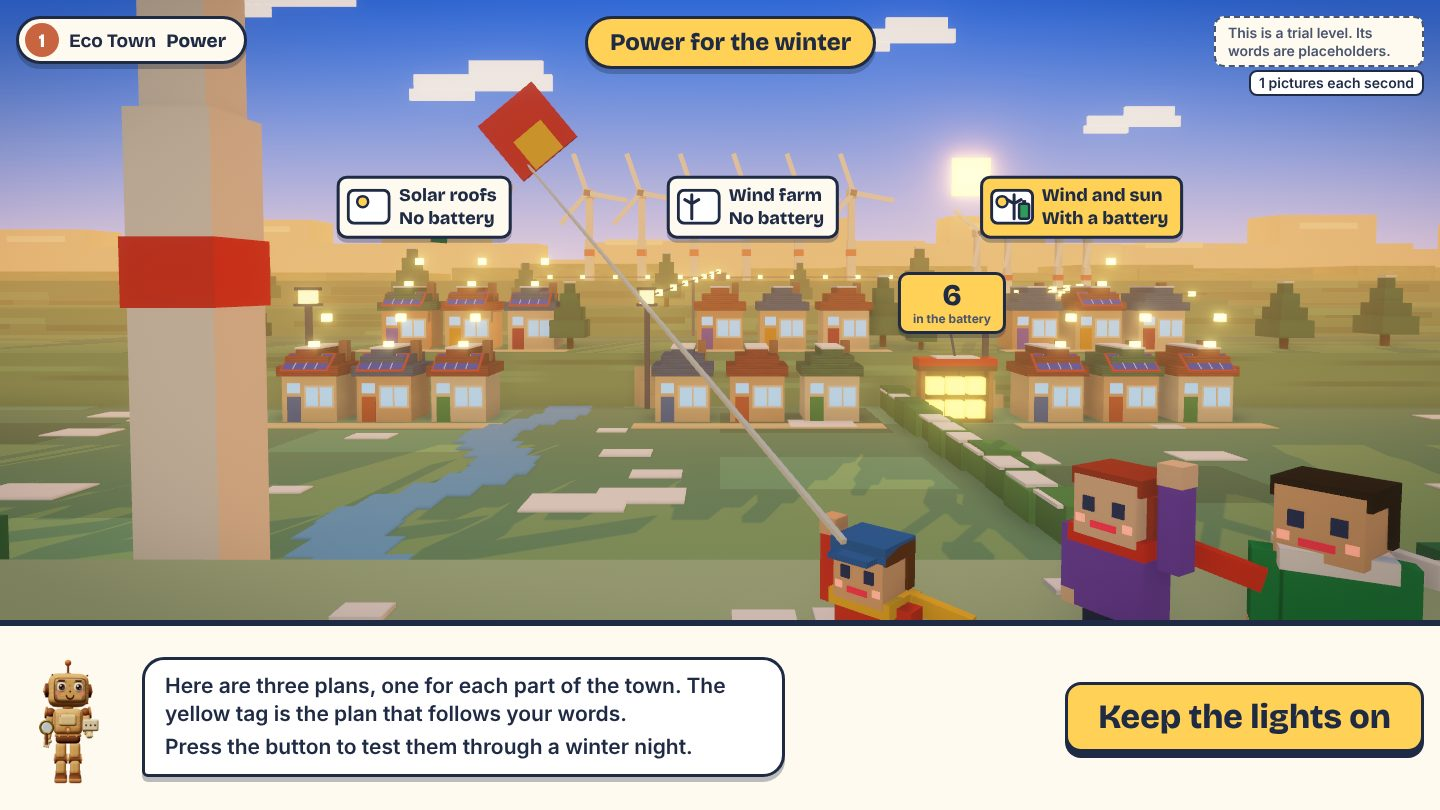
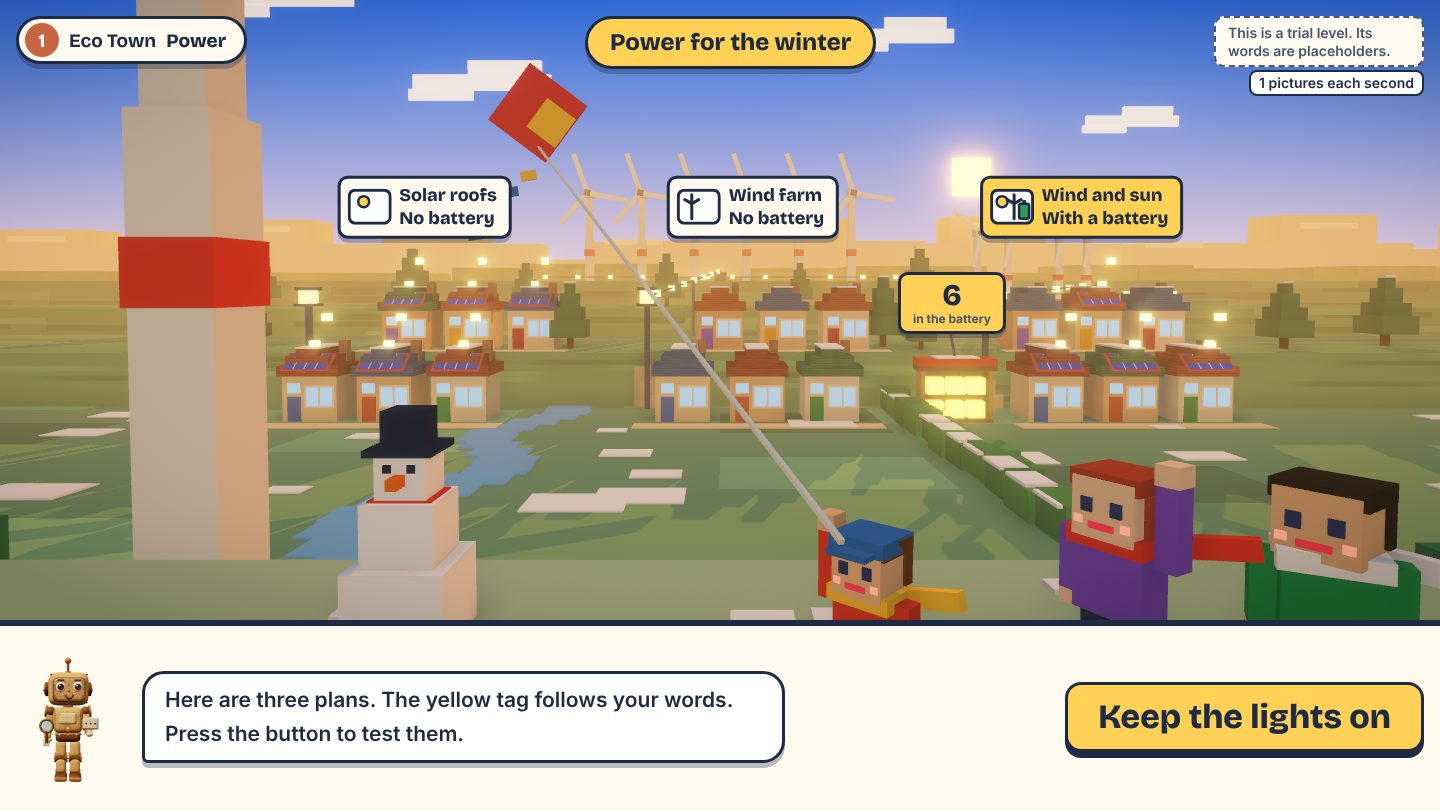
Power level: first recordings, and fixes found by looking at them
Claude-Session: https://claude.ai/code/session_01Ecde5Lvgabpd1qnHSP6bP6

diff --git a/docs/redesign/concepts/levels/power/level.js b/docs/redesign/concepts/levels/power/level.js
@@ -35,7 +35,7 @@ const W = {
   parts: { turb: 'Wind turbine', roof: 'Solar roof' }, left: (n) => (n ? `${n} left` : 'All in place'), stripe: 'Stripe colour', stripeNames: ['Red stripe', 'Blue stripe', 'Green stripe', 'Purple stripe'],
   setTurb: 'Choose where the turbines stand. Tap a yellow place.', setRoof: 'Choose which roofs get solar panels. Tap a yellow place.', setBoth: '', ready: 'Start the day', readySay: 'Everything is in place. You can still tap a turbine to move it.', geeseOff: 'The geese flew away from that turbine. Tap the turbine if you want to move it.', geeseBack: 'The geese have come back to their pond.',
   made: 'Power made', need: 'Homes need', spare: 'Spare', bat: 'In the battery', back: 'Move the sun back', finish: 'Florence, please finish the day',
-  sunHow: 'Drag the sun to the yellow mark.', moonHow: 'Drag the moon to the yellow mark.', first: 'Each home needs one bead of power.',
+  sunHow: 'Drag the sun to the yellow mark.', moonHow: 'Drag the moon to the yellow mark.', beadNeed: 'Each home needs one bead of power.', emptyNoSpare: 'There was no spare power to save, so the battery is empty.',
   day: ['It is morning.', 'It is midday.', 'It is afternoon.'],
   enough: 'Every home has its bead. There is no spare power.', spareSave: (n) => `There are ${n} spare beads. Tap the battery to save them.`, spareLost: (n) => `This plan has nowhere to keep the ${n} spare beads, so they are wasted.`, saved: (n) => `The battery now holds ${n} beads.`, full: 'The battery is full.',
   dusk: 'The sun has set, so the solar roofs make no power.', nightT: 'It is the middle of the night.', allLit: 'The wind is still blowing, and the turbines light every home.',
@@ -181,9 +181,9 @@ function hilltop() {
   const tails = [0, 1, 2, 3].map((k) => B(kite, -0.5 - k * 0.55, 0, 0.42, 0.08, -1.7 - k * 0.42, 0.26, ['#ffd257', '#3f78b5', '#ffd257', '#2e9b5a'][k], { raw: true, shadow: false }));
   const stringM = M('#f7f3e8'); let string = null; const hand = [3.9 - 2.5 - 0.28, HY + 1.72, 29.2 + 0.9 + 0.2];
   const walkers = CX.flatMap((cx, h) => [0, 1].map((j) => { const p = fig(g, cx + 14 - j * 28, 0.06, -14.4, { k: 1.4, ...FAMILY[(h + j) % 3], shirt: SHIRTS[(h * 2 + j) % 6], turn: j ? 1.5 : -1.5, pack: j ? '#ffd257' : null }); p.visible = false; return { p, x0: cx + 14 - j * 28, x1: cx + (j ? -3.6 : 6.8) }; }));
-  const geese = group(g), birds = [0, 1, 2, 3, 4, 5, 6].map((k) => { const b = group(geese, Math.ceil(k / 2) * 2.3, -Math.ceil(k / 2) * 0.5, (k % 2 ? 1 : -1) * Math.ceil(k / 2) * 1.2), m = new THREE.MeshBasicMaterial({ color: '#232a45' }); const body = new THREE.Mesh(new THREE.BoxGeometry(1.7, 0.45, 0.5), m); b.add(body); const wings = [-1, 1].map((sd) => { const w = group(b); const wm = new THREE.Mesh(new THREE.BoxGeometry(0.7, 0.14, 1.9), m); wm.position.z = sd * 0.95; w.add(wm); return { w, sd }; }); return { b, wings }; }); geese.visible = false;
+  const geese = group(g), birds = [0, 1, 2, 3, 4, 5, 6].map((k) => { const b = group(geese, Math.ceil(k / 2) * 2.3, -Math.ceil(k / 2) * 0.5, (k % 2 ? 1 : -1) * Math.ceil(k / 2) * 1.2), m = new THREE.MeshBasicMaterial({ color: '#232a45', fog: false }); const body = new THREE.Mesh(new THREE.BoxGeometry(1.7, 0.45, 0.5), m); b.add(body); const wings = [-1, 1].map((sd) => { const w = group(b); const wm = new THREE.Mesh(new THREE.BoxGeometry(0.7, 0.14, 1.9), m); wm.position.z = sd * 0.95; w.add(wm); return { w, sd }; }); return { b, wings }; }); geese.visible = false;
   // the geese cross the sky from right to left. Where the long row of turbines stands on the ridge, they have to bend their path up and over it
-  s.flyGeese = (sec) => { geese.visible = true; return tw(sec, (k) => { const x = 78 - 156 * k, bend = s.ham.includes(1) ? Math.exp(-(x * x) / 620) : 0; geese.position.set(x, 27.5 + bend * 8.5, -62); geese.rotation.z = s.ham.includes(1) ? -(x / 310) * Math.exp(-(x * x) / 620) * 8.5 * 0.5 : 0; }).then(() => { geese.visible = false; }); };
+  s.flyGeese = (sec) => { geese.visible = true; return tw(sec, (k) => { const x = 78 - 156 * k, bend = s.ham.includes(1) ? Math.exp(-(x * x) / 620) : 0; geese.position.set(x, 22.5 + bend * 8.5, -62); geese.scale.setScalar(1.9); geese.rotation.z = s.ham.includes(1) ? -(x / 310) * Math.exp(-(x * x) / 620) * 8.5 * 0.5 : 0; }).then(() => { geese.visible = false; }); };
 
   // a few things answer a tap, for a child who looks around: the kite loops, the family jumps, the tall turbine catches a gust, and the snowman lifts his hat
   const snow = group(g, -3.4, HY, 28.4); B(snow, 0, 0, 1.1, 1.1, 0, 0.9, '#ffffff'); B(snow, 0, 0, 0.8, 0.8, 0.9, 0.7, '#ffffff'); B(snow, 0, 0, 0.56, 0.56, 1.6, 0.5, '#ffffff'); B(snow, 0, 0.36, 0.12, 0.3, 1.78, 0.12, '#e9832a', NO_SH); for (const dx of [-0.13, 0.13]) B(snow, dx, 0.29, 0.09, 0.03, 1.92, 0.09, '#1f2a44', NO_SH); B(snow, 0, 0, 0.7, 0.62, 1.46, 0.16, '#e0503a'); const hat = group(snow, 0, 2.1, 0); B(hat, 0, 0, 0.74, 0.74, 0, 0.08, '#1f2a44'); B(hat, 0, 0, 0.46, 0.46, 0.08, 0.4, '#1f2a44');
@@ -216,14 +216,14 @@ function hilltop() {
     api.say([W.t4]); const n0 = barns[2].n; await tw(5.5, (k) => { setMoon(0.08 + 0.84 * k); const n = Math.max(n0 ? 2 : 0, n0 - Math.floor(k * 4.01)); if (n !== barns[2].n && CFG[2].battery) { setCount(2, n); beep(520 - n * 30, 0.1); } }); if (me !== run) return false;
     api.say([W.t5]); await tw(2.2, (k) => { look(K.nightB, K.dawn, ease(k) * 0.32); setMoon(0.92 + 0.14 * k); }); return me === run; };
   // after the test the child taps each part of the town to look closer, and the card of that plan comes up
-  s.look = (seen) => { s.looking = true; CX.forEach((cx, h) => hitBox(s, g, cx + 1.5, 0, -23, 24, 13, 14, () => s.looking, () => { glide({ eye: [cx * 0.85, 11.5, 9], at: [cx + 1.5, 1.2, -24], fov: 44 }, 1.1); beep(520 + h * 90, 0.08); seen(h); })); s.spot = (name, i) => [CX[i] + 2.6, 3, -18]; };
+  s.look = (seen) => { s.looking = true; CX.forEach((cx, h) => hitBox(s, g, cx + 1.5, 0, -23, 24, 13, 14, () => s.looking, () => { glide({ eye: [cx * 0.85, 11.5, 9], at: [cx + 1.5, 1.2, -24], fov: 44 }, 1.1); beep(520 + h * 90, 0.08); setTags(false); seen(h); })); s.spot = (name, i) => [CX[i] + 5.2, 7.5, -28]; };
   s.showResults = () => { s.looking = false; glide(CARDS, 1.4); setTags(false); };
   s.asking = () => { famPlate.hide = true; };
 
   // ---- the play break: place the parts, then run one winter day by hand ---------------------------------------------------------------
   s.playBreak = async (pick, api) => { const me = run, h = pick, c = CFG[pick], cx = CX[h], hs = homes[h], barn = barns[h], nT = TURBS[pick], nR = ROOFS[pick], alive = () => me === run;
     s.playing = true; if (flocks[pick]) { flocks[pick].g.visible = true; flocks[pick].away = false; flocks[pick].g.position.set(flocks[pick].x, flocks[pick].y, flocks[pick].z); } setTags(false); geese.visible = false; setMoon(null); s.made[pick] = { turbs: [], roofs: [] }; equip([-1, -1, -1].map((_, j) => (j === h ? pick : -1))); setCount(h, 0); for (const row of homes) for (const q of row) { q.lit = false; q.fed = false; } hs.forEach((q) => { q.pip.visible = true; }); const made = s.made[pick]; flows();
-    const from = s.last; glide(playCam(h), 1.8); await tw(1.8, (k) => { if (k < 0.5) look(from[0], from[1], from[2] + (1 - from[2]) * k * 2, from[3]); else look(K.dawn, K.morning, k * 2 - 1); }); if (!alive()) return; setArc({ c: cx * 0.8 + 1.5 + (cx * 0.2 + 0.9) * 5.3, w: 60, top: 42 }, false); look(K.morning, K.morning, 0);
+    const from = s.last; glide(playCam(h), 1.8); await tw(1.8, (k) => { if (k < 0.5) look(from[0], from[1], from[2] + (1 - from[2]) * k * 2, from[3]); else look(K.dawn, K.morning, k * 2 - 1); }); if (!alive()) return; setArc({ c: cx * 0.8 + 1.5 + (cx * 0.2 + 0.9) * 5.3, w: 60, top: 36 }, false); look(K.morning, K.morning, 0);
     let phase = 'setup', sel = nT ? 'turb' : 'roof', step = 0, busy = true, spare = [], sent = 0; const left = { turb: nT, roof: nR }, spots = { turb: [], roof: [] }, T = pick === 1 ? ridgeT : knollT;
     // the tray: the parts to place and the colour of the stripe; later the numbers of the day
     const partBtn = (id) => { const b = document.createElement('button'); b.className = 'part'; b.onclick = () => { if (left[id] && phase === 'setup') { sel = id; drawTray(); } }; return b; }, pb = { turb: partBtn('turb'), roof: partBtn('roof') };
@@ -264,13 +264,13 @@ function hilltop() {
       await tw(fwd ? 1.3 * (1 - p0) + 0.1 : 1.1, (q) => TR[fwd ? st : k](fwd ? p0 + (1 - p0) * ease(q) : 1 - ease(q))); if (!alive()) return; step = k; enter(k); }
     // what happens at each moment: the beads are made, every home takes one, and the rest is spare
     async function enter(k, first) { busy = true; step = k; showMark(); drawTray(); if (k === 5) return dawn(); const night = k >= 3, flights = []; let fed = 0; sent = 0;
-      api.say([night ? (k === 3 ? W.dusk : W.nightT) : W.day[k], first ? W.first : '']);
+      api.say([night ? (k === 3 ? W.dusk : W.nightT) : W.day[k], first ? W.beadNeed : '']);
       if (!night) hs.forEach((q, i) => { if (q.panel.visible) { fed++; flights.push(wait(i * 0.08).then(() => fly([q.x + 2.2, q.y + 9, q.z + 1], [q.x, q.y + 4.5, q.z + 1.6], 0.6, 0)).then(() => { q.fed = true; paint(); beep(760, 0.04, 'sine', 0.04); })); } });
       const need = hs.filter((q) => !(q.panel.visible && !night)), tur = c.off && night ? [] : T.filter((t) => t.g.visible); let extra = 0;
       tur.forEach((t, j) => { const from = [t.x, t.y + t.H + 0.5, t.z + 1.5], q = need[j]; if (q) { flights.push(wait(0.3 + j * 0.14).then(() => fly(from, [q.x - 1.05, q.y + 3.8, q.z + 1.9], 1.1, 5)).then(() => { q.fed = true; if (night) q.lit = true; paint(); beep(820, 0.04, 'sine', 0.04); })); } else { const n = extra++; flights.push(wait(0.3 + j * 0.14).then(() => fly(from, spareAt(n), 1.1, 5)).then(() => { if (alive() && step === k) { const m = new THREE.Mesh(BEAD, beadM); m.scale.setScalar(1.5); m.position.set(...spareAt(n)); g.add(m); spare.push(m); } })); } });
       await Promise.all(flights); await wait(0.2); if (!alive() || step !== k) return; busy = false; drawTray(); showMark(); const dark = hs.filter((q) => !q.fed).length;
       if (!night) { if (!spare.length) api.say([W.enough, W.sunHow]); else if (c.battery && barn.n < CELLS) { api.say([W.spareSave(spare.length)]); barnMark.visible = true; } else if (c.battery) api.say([W.full, W.sunHow]); else { api.say([W.spareLost(spare.length), W.sunHow]); const old = spare; spare = []; tw(1.6, (q) => old.forEach((m) => { m.position.y += 0.05; m.scale.setScalar(Math.max(0.01, 1 - q)); })).then(() => old.forEach((m) => g.remove(m))); } }
-      else { const head = k === 3 ? W.dusk : W.nightT; if (c.off) api.say([W.offNight, W.moonHow]); else if (!dark) api.say([W.allLit, W.moonHow]); else if (c.battery && barn.n > 0) { api.say([head, `${W.dark(dark)} ${W.send}`]); homeMarks(true); } else api.say([`${W.dark(dark)} ${c.battery ? W.empty : W.noBat}`, W.moonHow]); } }
+      else { const head = k === 3 ? W.dusk : W.nightT; if (c.off) api.say([W.offNight, W.moonHow]); else if (!dark) api.say([W.allLit, W.moonHow]); else if (c.battery && barn.n > 0) { api.say([head, `${W.dark(dark)} ${W.send}`]); homeMarks(true); } else api.say([`${W.dark(dark)} ${c.battery ? (pick === 2 ? W.empty : W.emptyNoSpare) : W.noBat}`, W.moonHow]); } }
     const spareAt = (n) => [posts[h].top[0] + 1.6 + n * 1.2, 9.4, -21.5];
     // the battery: a tap saves the spare beads of this moment, as many as there is room for
     const barnMark = glowMarks(frame(g, barn.x, 0.1, barn.z + 1.1, 5.2, 3.7, true, { fill: 0.35 })); barnMark.visible = false;
